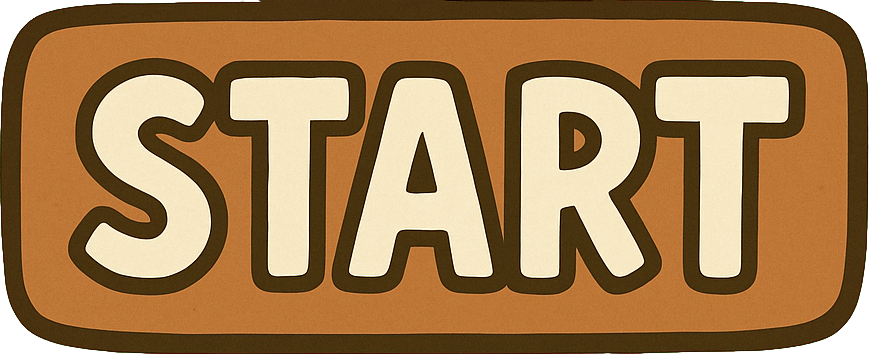
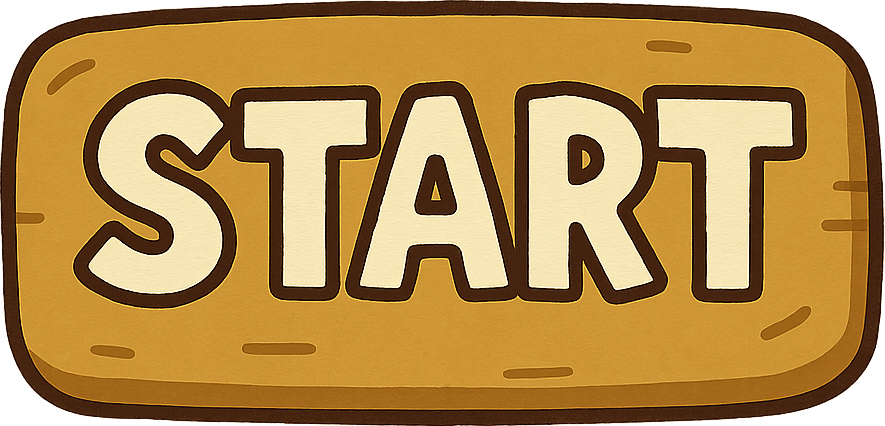
image start button

diff --git a/app/pages/StartScreen.tsx b/app/pages/StartScreen.tsx
@@ -2,11 +2,14 @@ import { useNavigate } from "react-router";
 import startScreenSrc from "@/assets/start-screen.png";
 import "@/pages/StartScreen.css";
 import { MainRow } from "@/components/MainRow";
+import startButtonSrc from "@/assets/start-button.png";
 
 export default function StartScreen() {
   const navigate = useNavigate();
 
   return <MainRow backgroundImageSrc={startScreenSrc}>
-    <button className="start-button" onClick={() => navigate("/cow")}>Start Game</button>
+    <button className="start-button hover-highlight unstyled-button" onClick={() => navigate("/cow")}>
+      <img src={startButtonSrc} alt="Start Game" />
+    </button>
   </MainRow>
 }

diff --git a/app/pages/MainGame.css b/app/pages/MainGame.css
@@ -13,15 +13,8 @@
 }
 
 .cow-button {
-  background: none;
-  border: 0;
-  padding: 0;
-  cursor: pointer;
   grid-area: 1 / 1;
   inline-size: 70%;
-  display: block;
-  outline: none;
-  align-items: end;
   translate: 0 -20cqb;
 }
 
@@ -30,12 +23,6 @@
   block-size: auto;
   object-fit: contain;
   display: block;
-}
-
-.cow:hover,
-.cow-button:focus-visible>.cow {
-  filter:
-    drop-shadow(1px 0 0 #ffd700) drop-shadow(-1px 0 0 #ffd700) drop-shadow(0 1px 0 #ffd700) drop-shadow(0 -1px 0 #ffd700) drop-shadow(0 0 6px rgba(255, 215, 0, 0.6));
 }
 
 .field {

diff --git a/app/global-styles.css b/app/global-styles.css
@@ -56,3 +56,18 @@ button:focus,
 button:focus-visible {
   outline: 4px auto -webkit-focus-ring-color;
 }
+
+.unstyled-button {
+  background: none;
+  border: 0;
+  padding: 0;
+  border-radius: 0;
+  appearance: none;
+  color: inherit;
+  font: inherit;
+}
+
+.hover-highlight:hover {
+  filter:
+    drop-shadow(1px 0 0 #ffd700) drop-shadow(-1px 0 0 #ffd700) drop-shadow(0 1px 0 #ffd700) drop-shadow(0 -1px 0 #ffd700) drop-shadow(0 0 6px rgba(255, 215, 0, 0.6));
+}

diff --git a/app/pages/MainGame.tsx b/app/pages/MainGame.tsx
@@ -17,7 +17,7 @@ export const MainGame = () => {
           type="button"
           onClick={() => setCount((count) => count + 1)}
           aria-label="Click the cow"
-          className="cow-button"
+          className="cow-button hover-highlight unstyled-button"
         >
           <img src={cowWhiteSrc} className="cow" alt="" aria-hidden="true" />
         </button>

diff --git a/app/pages/StartScreen.css b/app/pages/StartScreen.css
@@ -1,4 +1,11 @@
 .start-button {
   margin-top: auto;
-  margin-bottom: 10cqb;
+  margin-bottom: 5cqb;
+  width: 50%;
+}
+
+.start-button img {
+  display: block;
+  width: 100%;
+  height: auto;
 }
